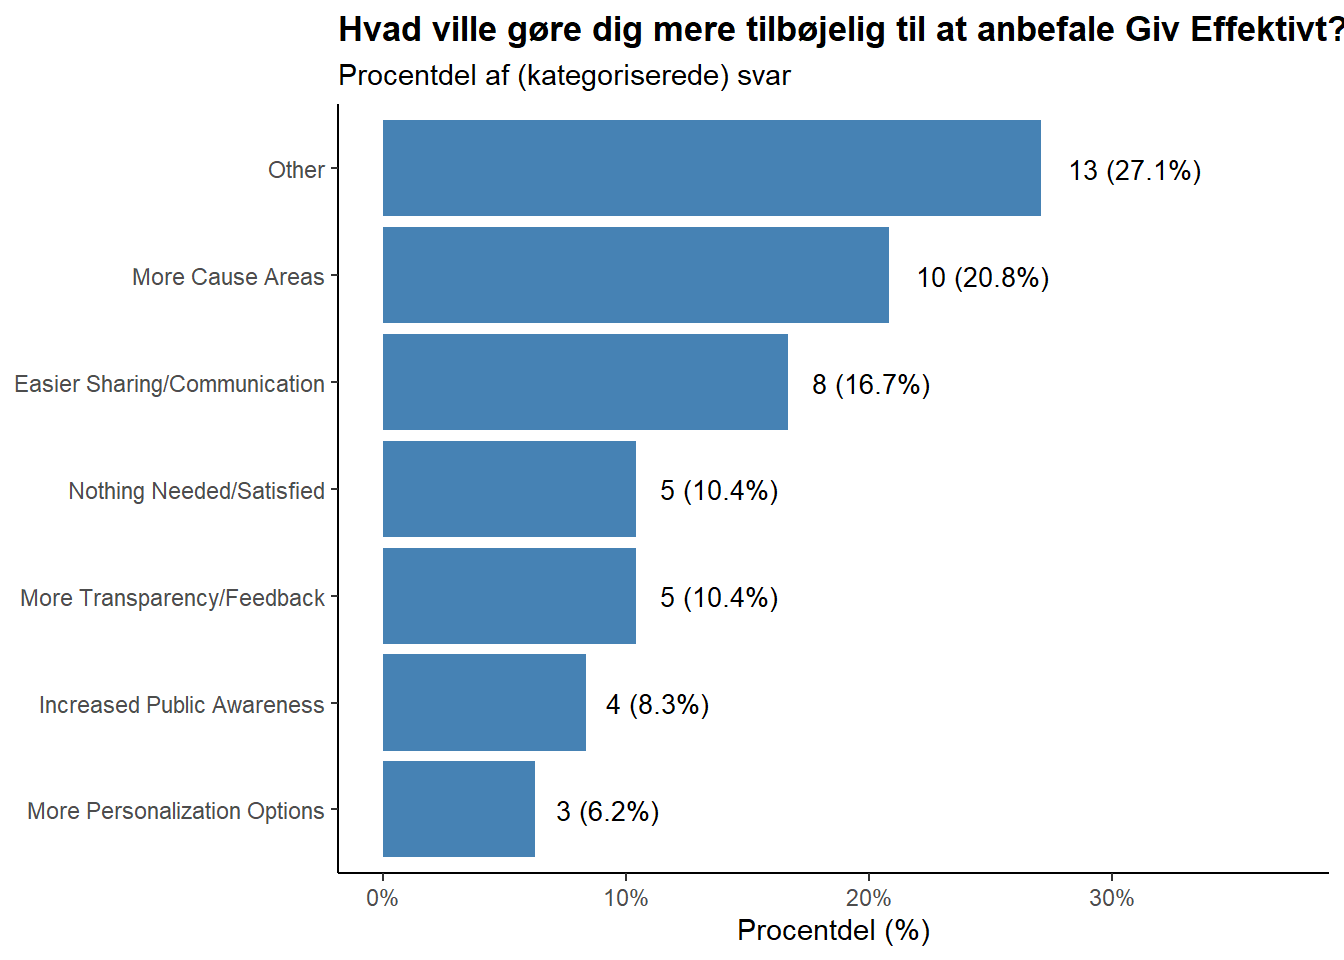
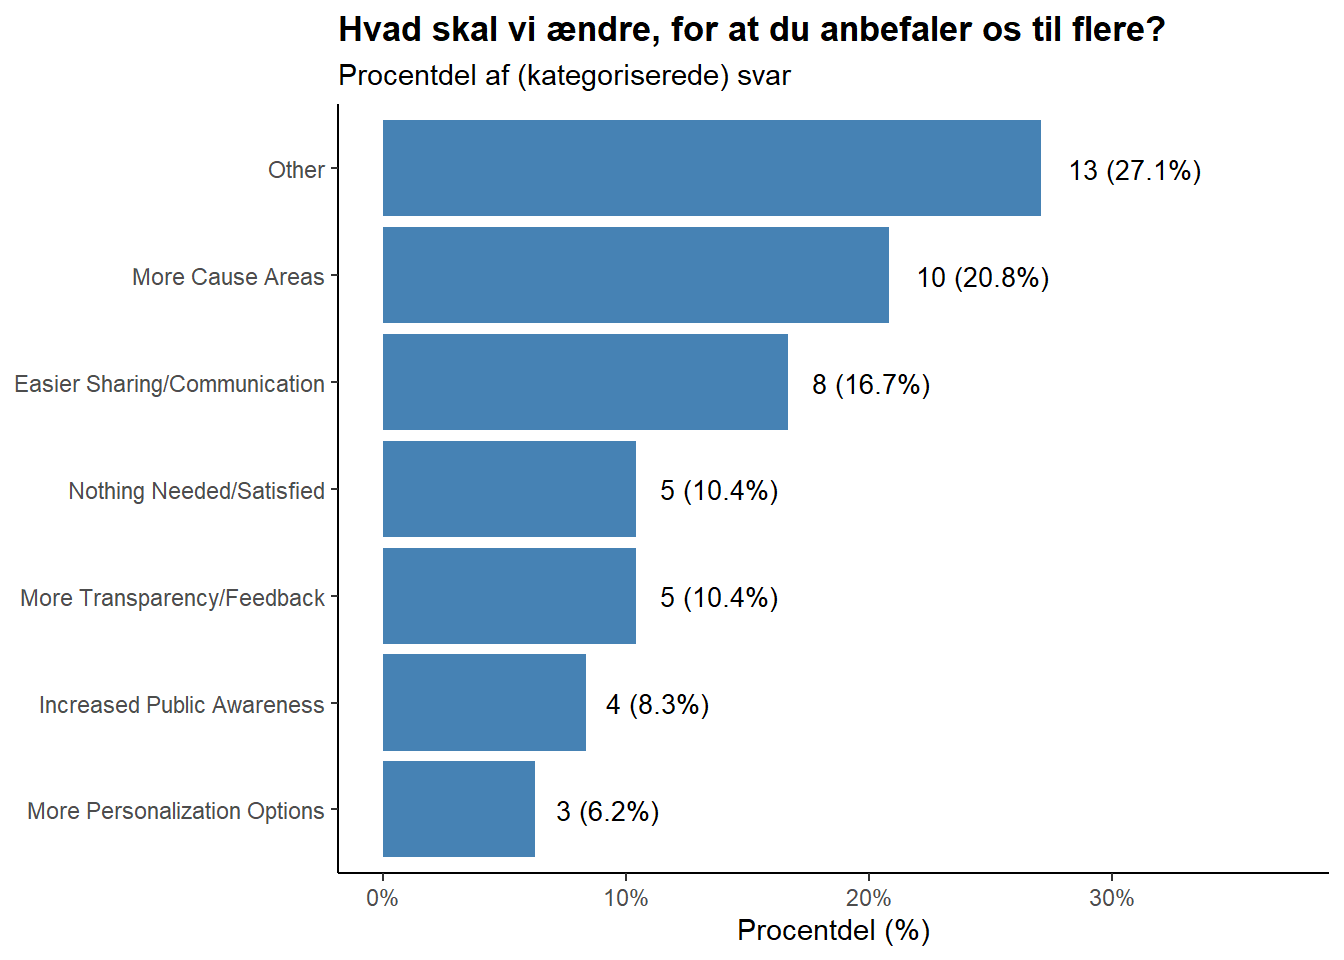
smol fix to plot titles

Changed region(s): [[0.3125, 0.0, 1.0, 0.0625]]

diff --git a/index.html b/index.html
@@ -266,7 +266,7 @@ pre > code.sourceCode > span > a:first-child::before { text-decoration: underlin
 <span id="cb3-57"><a href="#cb3-57" aria-hidden="true" tabindex="-1"></a>  <span class="fu">geom_bar</span>(<span class="at">stat =</span> <span class="st">"identity"</span>, <span class="at">fill =</span> <span class="st">"steelblue"</span>) <span class="sc">+</span></span>
 <span id="cb3-58"><a href="#cb3-58" aria-hidden="true" tabindex="-1"></a>  <span class="fu">coord_flip</span>() <span class="sc">+</span></span>
 <span id="cb3-59"><a href="#cb3-59" aria-hidden="true" tabindex="-1"></a>  <span class="fu">labs</span>(</span>
-<span id="cb3-60"><a href="#cb3-60" aria-hidden="true" tabindex="-1"></a>    <span class="at">title =</span> <span class="st">"Hvad ville gøre dig mere tilbøjelig til at anbefale Giv Effektivt?"</span>,</span>
+<span id="cb3-60"><a href="#cb3-60" aria-hidden="true" tabindex="-1"></a>    <span class="at">title =</span> <span class="st">"Hvad skal vi ændre, for at du anbefaler os til flere?"</span>,</span>
 <span id="cb3-61"><a href="#cb3-61" aria-hidden="true" tabindex="-1"></a>    <span class="at">subtitle =</span> <span class="st">"Procentdel af (kategoriserede) svar"</span>,</span>
 <span id="cb3-62"><a href="#cb3-62" aria-hidden="true" tabindex="-1"></a>    <span class="at">x =</span> <span class="cn">NULL</span>,</span>
 <span id="cb3-63"><a href="#cb3-63" aria-hidden="true" tabindex="-1"></a>    <span class="at">y =</span> <span class="st">"Procentdel (%)"</span></span>
@@ -400,7 +400,7 @@ pre > code.sourceCode > span > a:first-child::before { text-decoration: underlin
 <span id="cb5-21"><a href="#cb5-21" aria-hidden="true" tabindex="-1"></a>  <span class="fu">geom_bar</span>(<span class="at">stat =</span> <span class="st">"identity"</span>, <span class="at">fill =</span> <span class="st">"steelblue"</span>) <span class="sc">+</span></span>
 <span id="cb5-22"><a href="#cb5-22" aria-hidden="true" tabindex="-1"></a>  <span class="fu">coord_flip</span>() <span class="sc">+</span></span>
 <span id="cb5-23"><a href="#cb5-23" aria-hidden="true" tabindex="-1"></a>  <span class="fu">labs</span>(</span>
-<span id="cb5-24"><a href="#cb5-24" aria-hidden="true" tabindex="-1"></a>    <span class="at">title =</span> <span class="st">"Kendskab til og påvirkning af Effektiv Altruisme (EA)"</span>,</span>
+<span id="cb5-24"><a href="#cb5-24" aria-hidden="true" tabindex="-1"></a>    <span class="at">title =</span> <span class="st">"Hvilket udsagn om EA passer bedst om dig"</span>,</span>
 <span id="cb5-25"><a href="#cb5-25" aria-hidden="true" tabindex="-1"></a>    <span class="at">subtitle =</span> <span class="st">"Fordeling af svar fra 195 respondenter"</span>,</span>
 <span id="cb5-26"><a href="#cb5-26" aria-hidden="true" tabindex="-1"></a>    <span class="at">x =</span> <span class="cn">NULL</span>,</span>
 <span id="cb5-27"><a href="#cb5-27" aria-hidden="true" tabindex="-1"></a>    <span class="at">y =</span> <span class="st">"Procentdel (%)"</span></span>
